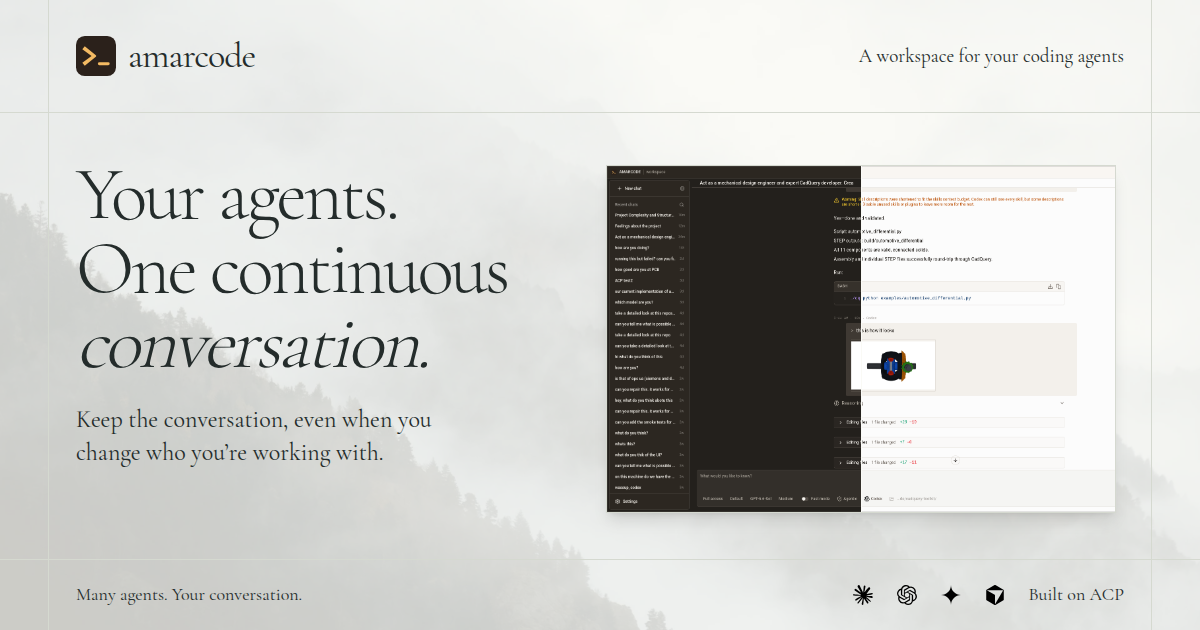
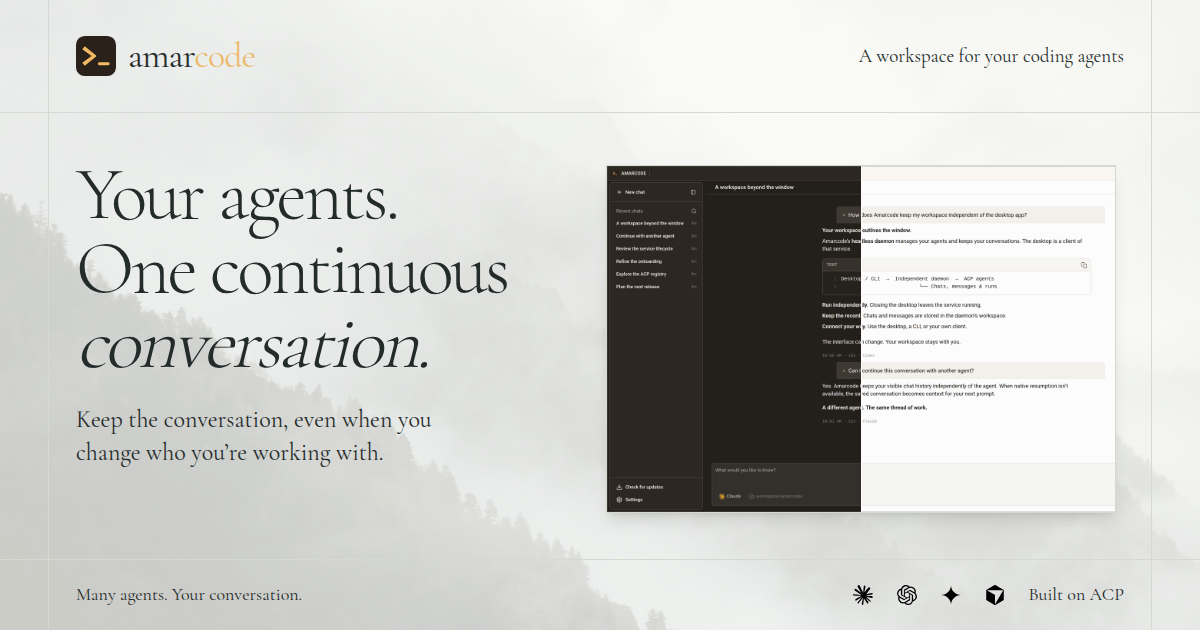
changed screenshot in landing

diff --git a/crates/landing/src/components/app-preview.tsx b/crates/landing/src/components/app-preview.tsx
@@ -33,18 +33,18 @@ export default function AppPreview() {
         >
           <img
             src="/images/app/amarcode-light.png"
-            alt="Amarcode in light mode, showing a coding conversation and message composer."
-            width={1853}
-            height={1048}
+            alt="Amarcode in light mode, showing a demo conversation with Codex and Claude about the independent daemon and conversation continuity."
+            width={3200}
+            height={1800}
             loading="lazy"
             decoding="async"
             className="block h-auto w-full"
           />
           <img
             src="/images/app/amarcode-dark.png"
-            alt="The same Amarcode workspace in dark mode."
-            width={1853}
-            height={1048}
+            alt="The same Codex and Claude demo conversation in Amarcode’s dark theme."
+            width={3200}
+            height={1800}
             loading="lazy"
             decoding="async"
             className="pointer-events-none absolute inset-0 size-full [clip-path:inset(0_calc(100%_-_var(--reveal))_0_0)]"
@@ -81,8 +81,7 @@ export default function AppPreview() {
           />
         </figure>
       </div>
-      <div className="py-3">
-      </div>
+      <div className="py-3"></div>
     </section>
   );
 }

diff --git a/crates/landing/README.md b/crates/landing/README.md
@@ -1,6 +1,6 @@
 # Amarcode landing page
 
-Bun workspace with Vite, React, TypeScript, Tailwind CSS v4, shadcn/ui, and Lucide icons. The page is a placeholder; visual design comes next.
+Bun workspace with Vite, React, TypeScript, Tailwind CSS v4, shadcn/ui, and Lucide icons. The page includes a cloud hero, app comparison slider, agent directory, daemon overview, and downloads.
 
 From the repository root:
 
@@ -28,7 +28,7 @@ Source lives in `src/`, shared UI components in `src/components/ui/`, and the th
 
 Typography uses locally hosted Cormorant Garamond from Google Fonts (300 and 400), with its OFL license in `public/fonts/OFL.txt`. Agent icons and names are copied from `vendor/acp-registry`; `src/lib/agents.json` records the local snapshot. All icons are retained; quarantined entries are omitted from the page. Registry licensing is retained alongside the icons.
 
-Application assets are copied without modification into `public/images/app/`: the logo from `crates/application/src-tauri/icons/icon.svg`, and light, dark, and split-theme screenshots from `assets/`. `AppPreview` uses a native, keyboard-accessible comparison slider to reveal the light and dark screenshots. Card, Badge, Separator, Accordion, and Dropdown Menu are installed for future sections.
+The application logo in `public/images/app/` is copied from `crates/application/src-tauri/icons/icon.svg`. Light and dark screenshots are captured from the actual application renderer with synthetic demo data. The original split-theme reference remains copied from `assets/`. `AppPreview` uses a native, keyboard-accessible comparison slider to reveal the light and dark screenshots. Card, Badge, Separator, Accordion, and Dropdown Menu are installed for future sections.
 
 All page layout, responsive styling, texture overlays, and interaction effects use Tailwind utilities in the components. `src/index.css` contains only Tailwind imports, local font declarations, theme tokens, and the shadcn base layer. Dynamic agent icon URLs are passed as a CSS variable consumed by a Tailwind mask utility.
 
@@ -47,3 +47,20 @@ SITE_URL=https://your-domain.example bun run landing:build
 `public/social-preview.png` is the 1200×630 sharing image. Its editable Tailwind source is `scripts/social-preview.html`; open `/scripts/social-preview.html` in the Vite dev server and capture it at a 1200×630 viewport after fonts and images load to regenerate the PNG.
 
 Validate installer filtering with `bun test ./crates/landing/scripts/releases.test.ts` from the repository root.
+
+## Regenerating application screenshots
+
+The screenshot harness renders the real app components. Its isolated API fixture contains a sample Codex/Claude conversation and never connects to a daemon, runs an agent, or writes to real workspace data. Both themes use the same 1600×900 viewport at 2× resolution (3200×1800 PNGs), fixed timestamps, local fonts, and matching scroll position.
+
+```sh
+# One-time browser setup:
+bunx --cwd crates/landing playwright install chromium
+# Terminal 1 — isolated application renderer:
+bun run --cwd crates/application dev --port 1421
+# Terminal 2 — generate both screenshots:
+bun run --cwd crates/landing screenshots
+```
+
+For an existing Chromium installation, set `PLAYWRIGHT_CHROMIUM_EXECUTABLE_PATH`. Override the renderer URL with `APP_PREVIEW_URL` if needed. `scripts/screenshots/demo-api.mjs` is the editable demo content; it is only substituted by Playwright during capture, never included in the app build. Updating these fixtures does not change app behavior.
+
+After changing the screenshots, rebuild the landing page and regenerate the sharing image with `bun run --cwd crates/landing screenshots:social`.
